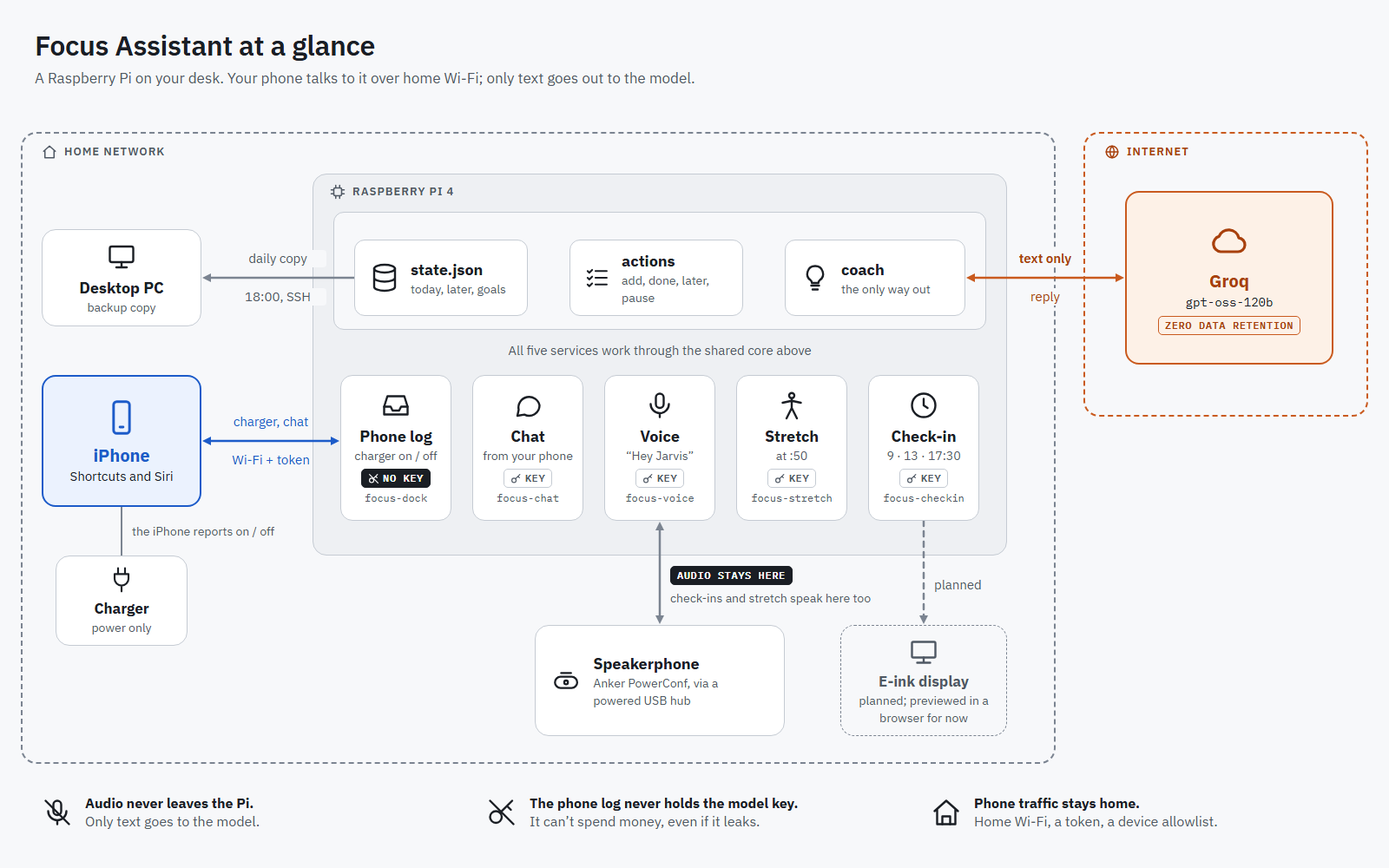
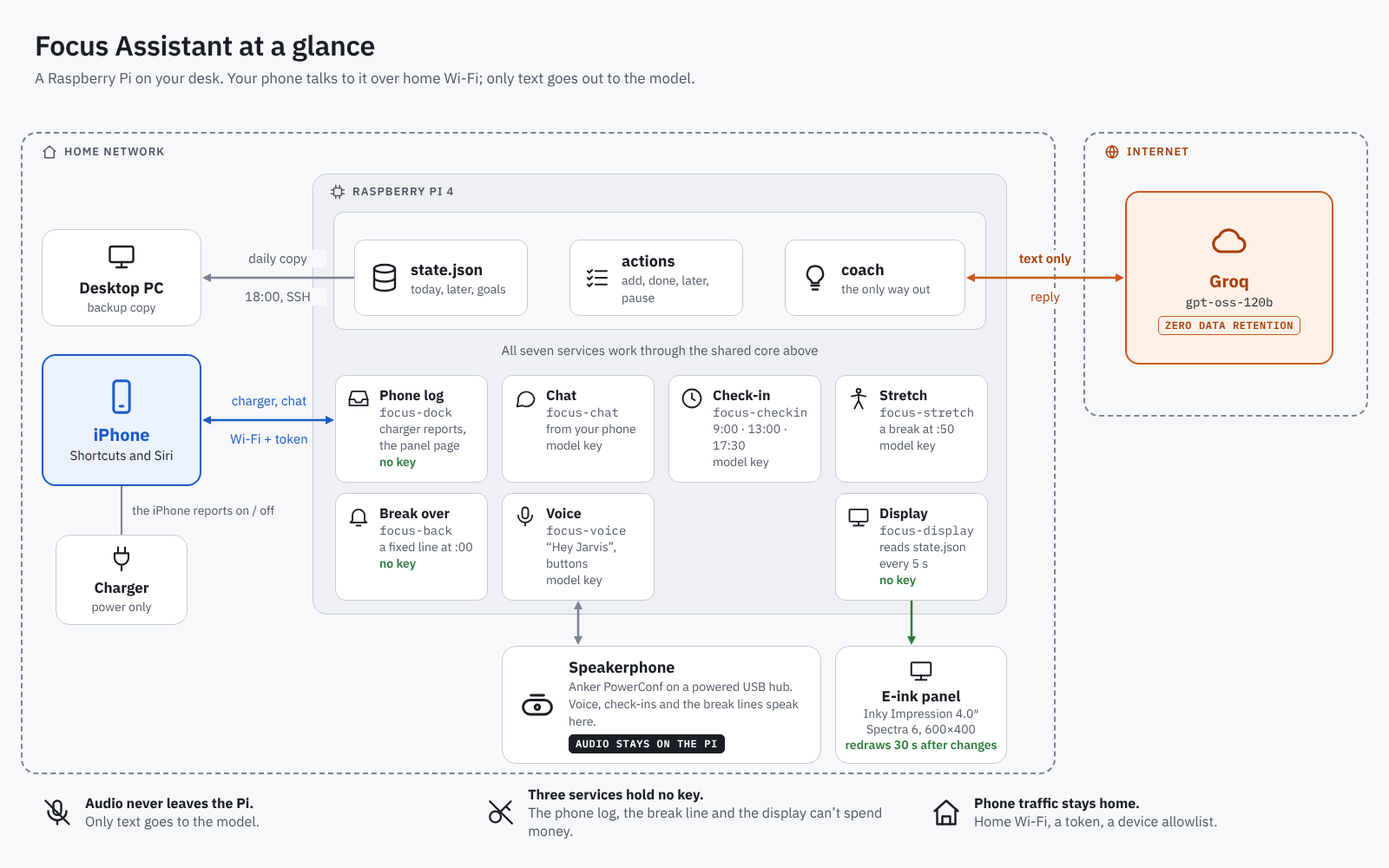
Show the live e-ink panel and all seven services in the at-a-glance diagram
The panel is a solid box fed by focus-display, which joins focus-back as
new service tiles (seven, in two rows). The phone log now serves the
panel's page. No-key services and trust boundaries get their own colour
tokens, ready for the new palette. The alt text says seven services and
drops "planned".

Claude-Session: https://claude.ai/code/session_012JGky2b5gRaRkVCuL4X8Ex

diff --git a/docs/diagrams/architecture-simple.html b/docs/diagrams/architecture-simple.html
@@ -10,10 +10,12 @@
 body{margin:0;background:#f7f8fa}
 @media (prefers-color-scheme: dark){body{background:#111418}}
 a{color:#1c5bc9}a:hover{color:#123f8f}
-.t-light,.t-auto{--bg:#f7f8fa;--panel:#eef0f3;--card:#ffffff;--ink:#1a1e24;--muted:#4f5864;--line:#7b8491;--border:#c5cbd3;--host:#a8400c;--host-bg:#fdf1e7;--host-line:#c95a1e;--phone:#1c5bc9;--phone-bg:#ebf2fe;--chip:#1a1e24;--chip-ink:#ffffff}
-.t-dark{--bg:#111418;--panel:#191d23;--card:#222830;--ink:#e7eaee;--muted:#a4acb7;--line:#8c96a3;--border:#3b434e;--host:#f39a63;--host-bg:#2c1f17;--host-line:#e07b40;--phone:#82abff;--phone-bg:#172338;--chip:#e7eaee;--chip-ink:#111418}
-@media (prefers-color-scheme: dark){.t-auto{--bg:#111418;--panel:#191d23;--card:#222830;--ink:#e7eaee;--muted:#a4acb7;--line:#8c96a3;--border:#3b434e;--host:#f39a63;--host-bg:#2c1f17;--host-line:#e07b40;--phone:#82abff;--phone-bg:#172338;--chip:#e7eaee;--chip-ink:#111418}}
+.t-light,.t-auto{--bg:#f7f8fa;--panel:#eef0f3;--card:#ffffff;--ink:#1a1e24;--muted:#4f5864;--line:#7b8491;--border:#c5cbd3;--host:#a8400c;--host-bg:#fdf1e7;--host-line:#c95a1e;--phone:#1c5bc9;--phone-bg:#ebf2fe;--chip:#1a1e24;--chip-ink:#ffffff;--nokey:#2f7d3e;--boundary:#7b8491}
+.t-dark{--bg:#111418;--panel:#191d23;--card:#222830;--ink:#e7eaee;--muted:#a4acb7;--line:#8c96a3;--border:#3b434e;--host:#f39a63;--host-bg:#2c1f17;--host-line:#e07b40;--phone:#82abff;--phone-bg:#172338;--chip:#e7eaee;--chip-ink:#111418;--nokey:#7cc28a;--boundary:#8c96a3}
+@media (prefers-color-scheme: dark){.t-auto{--bg:#111418;--panel:#191d23;--card:#222830;--ink:#e7eaee;--muted:#a4acb7;--line:#8c96a3;--border:#3b434e;--host:#f39a63;--host-bg:#2c1f17;--host-line:#e07b40;--phone:#82abff;--phone-bg:#172338;--chip:#e7eaee;--chip-ink:#111418;--nokey:#7cc28a;--boundary:#8c96a3}}
 .s{color:var(--muted)}
+.nk{color:var(--nokey);font-weight:600}
+.u{font:14px/19px 'IBM Plex Mono',ui-monospace,monospace;color:var(--muted)}
 .kb{display:inline-flex;align-items:center;gap:4px;font:600 12px/18px 'IBM Plex Mono',ui-monospace,monospace;letter-spacing:.05em;padding:1px 7px;border-radius:5px;border:1px solid var(--border);color:var(--muted)}
 .kb.no{background:var(--chip);color:var(--chip-ink);border-color:var(--chip)}
 .cap{display:flex;align-items:center;gap:8px;font-size:13px;line-height:16px;font-weight:600;letter-spacing:.08em;color:var(--muted)}
@@ -21,24 +23,24 @@ a{color:#1c5bc9}a:hover{color:#123f8f}
 <div class="t-auto" style="position: relative; width: 1600px; height: 1000px; overflow: hidden; background: var(--bg); color: var(--ink); font-family: 'IBM Plex Sans', system-ui, sans-serif">
 
 <!-- bands -->
-<div style="position: absolute; left: 24px; top: 152px; width: 1192px; height: 728px; box-sizing: border-box; border: 2px dashed var(--line); border-radius: 18px"></div>
-<div style="position: absolute; left: 1248px; top: 152px; width: 328px; height: 328px; box-sizing: border-box; border: 2px dashed var(--host-line); border-radius: 18px"></div>
-<div style="position: absolute; left: 360px; top: 200px; width: 800px; height: 440px; box-sizing: border-box; background: var(--panel); border: 1.5px solid var(--border); border-radius: 16px"></div>
+<div style="position: absolute; left: 24px; top: 152px; width: 1192px; height: 740px; box-sizing: border-box; border: 2px dashed var(--boundary); border-radius: 18px"></div>
+<div style="position: absolute; left: 1248px; top: 152px; width: 328px; height: 328px; box-sizing: border-box; border: 2px dashed var(--boundary); border-radius: 18px"></div>
+<div style="position: absolute; left: 360px; top: 200px; width: 800px; height: 508px; box-sizing: border-box; background: var(--panel); border: 1.5px solid var(--border); border-radius: 16px"></div>
 <div style="position: absolute; left: 384px; top: 244px; width: 752px; height: 136px; box-sizing: border-box; background: var(--bg); border: 1.5px solid var(--border); border-radius: 12px"></div>
 
 <!-- arrows -->
-<svg width="158" height="8" viewBox="0 0 158 8" preserveAspectRatio="none" style="position: absolute; left: 233px; top: 504px; width: 158px; height: 8px; overflow: visible; fill: none; stroke: var(--phone); stroke-width: 2.5; stroke-linecap: round; stroke-linejoin: round"><defs><marker id="dc-arrow-head-filled-1" orient="auto-start-reverse" markerWidth="5" markerHeight="5" refX="2" refY="2" overflow="visible"><path d="M0 0 L4 2 L0 4 Z" fill="#1c5bc9" stroke="none" style="stroke: none; fill: #1c5bc9; fill: context-stroke"/></marker></defs><path d="M 5 4 L 153 4" marker-start="url(#dc-arrow-head-filled-1)" marker-end="url(#dc-arrow-head-filled-1)"></path></svg>
+<svg width="152" height="8" viewBox="0 0 152 8" preserveAspectRatio="none" style="position: absolute; left: 233px; top: 480px; width: 152px; height: 8px; overflow: visible; fill: none; stroke: var(--phone); stroke-width: 2.5; stroke-linecap: round; stroke-linejoin: round"><defs><marker id="dc-arrow-head-filled-1" orient="auto-start-reverse" markerWidth="5" markerHeight="5" refX="2" refY="2" overflow="visible"><path d="M0 0 L4 2 L0 4 Z" fill="#1c5bc9" stroke="none" style="stroke: none; fill: #1c5bc9; fill: context-stroke"/></marker></defs><path d="M 5 4 L 147 4" marker-start="url(#dc-arrow-head-filled-1)" marker-end="url(#dc-arrow-head-filled-1)"></path></svg>
 <svg width="175" height="8" viewBox="0 0 175 8" preserveAspectRatio="none" style="position: absolute; left: 233px; top: 316px; width: 175px; height: 8px; overflow: visible; fill: none; stroke: var(--line); stroke-width: 2.5; stroke-linecap: round; stroke-linejoin: round"><defs><marker id="dc-arrow-head-filled-2" orient="auto" markerWidth="5" markerHeight="5" refX="2" refY="2" overflow="visible"><path d="M0 0 L4 2 L0 4 Z" fill="#7b8491" stroke="none" style="stroke: none; fill: #7b8491; fill: context-stroke"/></marker></defs><path d="M 175 4 L 5 4" marker-end="url(#dc-arrow-head-filled-2)"></path></svg>
 <svg width="182" height="8" viewBox="0 0 182 8" preserveAspectRatio="none" style="position: absolute; left: 1113px; top: 316px; width: 182px; height: 8px; overflow: visible; fill: none; stroke: var(--host-line); stroke-width: 2.5; stroke-linecap: round; stroke-linejoin: round"><defs><marker id="dc-arrow-head-filled-3" orient="auto-start-reverse" markerWidth="5" markerHeight="5" refX="2" refY="2" overflow="visible"><path d="M0 0 L4 2 L0 4 Z" fill="#c95a1e" stroke="none" style="stroke: none; fill: #c95a1e; fill: context-stroke"/></marker></defs><path d="M 5 4 L 177 4" marker-start="url(#dc-arrow-head-filled-3)" marker-end="url(#dc-arrow-head-filled-3)"></path></svg>
-<svg width="8" height="118" viewBox="0 0 8 118" preserveAspectRatio="none" style="position: absolute; left: 756px; top: 601px; width: 8px; height: 118px; overflow: visible; fill: none; stroke: var(--line); stroke-width: 2.5; stroke-linecap: round; stroke-linejoin: round"><defs><marker id="dc-arrow-head-filled-4" orient="auto-start-reverse" markerWidth="5" markerHeight="5" refX="2" refY="2" overflow="visible"><path d="M0 0 L4 2 L0 4 Z" fill="#7b8491" stroke="none" style="stroke: none; fill: #7b8491; fill: context-stroke"/></marker></defs><path d="M 4 5 L 4 113" marker-start="url(#dc-arrow-head-filled-4)" marker-end="url(#dc-arrow-head-filled-4)"></path></svg>
-<svg width="8" height="119" viewBox="0 0 8 119" preserveAspectRatio="none" style="position: absolute; left: 1060px; top: 600px; width: 8px; height: 119px; overflow: visible; fill: none; stroke: var(--line); stroke-width: 2.5; stroke-linecap: round; stroke-linejoin: round; stroke-dasharray: 6 6"><defs><marker id="dc-arrow-head-filled-5" orient="auto" markerWidth="5" markerHeight="5" refX="2" refY="2" overflow="visible"><path d="M0 0 L4 2 L0 4 Z" fill="#7b8491" stroke="none" style="stroke: none; stroke-dasharray: none; fill: #7b8491; fill: context-stroke"/></marker></defs><path d="M 4 0 L 4 114" marker-end="url(#dc-arrow-head-filled-5)"></path></svg>
+<svg width="8" height="51" viewBox="0 0 8 51" preserveAspectRatio="none" style="position: absolute; left: 662px; top: 692px; width: 8px; height: 51px; overflow: visible; fill: none; stroke: var(--line); stroke-width: 2.5; stroke-linecap: round; stroke-linejoin: round"><defs><marker id="dc-arrow-head-filled-4" orient="auto-start-reverse" markerWidth="5" markerHeight="5" refX="2" refY="2" overflow="visible"><path d="M0 0 L4 2 L0 4 Z" fill="#7b8491" stroke="none" style="stroke: none; fill: #7b8491; fill: context-stroke"/></marker></defs><path d="M 4 5 L 4 46" marker-start="url(#dc-arrow-head-filled-4)" marker-end="url(#dc-arrow-head-filled-4)"></path></svg>
+<svg width="8" height="51" viewBox="0 0 8 51" preserveAspectRatio="none" style="position: absolute; left: 1046px; top: 692px; width: 8px; height: 51px; overflow: visible; fill: none; stroke: var(--nokey); stroke-width: 2.5; stroke-linecap: round; stroke-linejoin: round"><defs><marker id="dc-arrow-head-filled-5" orient="auto" markerWidth="5" markerHeight="5" refX="2" refY="2" overflow="visible"><path d="M0 0 L4 2 L0 4 Z" fill="#7b8491" stroke="none" style="stroke: none; fill: #7b8491; fill: context-stroke"/></marker></defs><path d="M 4 0 L 4 46" marker-end="url(#dc-arrow-head-filled-5)"></path></svg>
 
 <!-- title -->
 <div style="position: absolute; left: 40px; top: 32px; font-size: 32px; line-height: 40px; font-weight: 600; letter-spacing: -0.01em">Focus Assistant at a glance</div>
 <div style="position: absolute; left: 40px; top: 78px; width: 900px; font-size: 17px; line-height: 24px; color: var(--muted)">A Raspberry Pi on your desk. Your phone talks to it over home Wi-Fi; only text goes out to the model.</div>
 
 <!-- people and devices -->
-<div style="position: absolute; left: 48px; top: 432px; width: 184px; height: 152px; box-sizing: border-box; display: flex; flex-direction: column; align-items: center; justify-content: center; gap: 8px; padding: 12px; text-align: center; background: var(--phone-bg); border: 2px solid var(--phone); border-radius: 16px; color: var(--phone)"><svg width="44" height="44" viewBox="0 0 24 24" fill="none" stroke="currentColor" stroke-width="1.6" stroke-linecap="round" stroke-linejoin="round" aria-hidden="true"><rect x="7" y="2" width="10" height="20" rx="2"></rect><path d="M11 18h2"></path></svg><span><b style="font-size: 20px">iPhone</b><br><span style="font-size: 15px; color: var(--ink)">Shortcuts and Siri</span></span></div>
+<div style="position: absolute; left: 48px; top: 408px; width: 184px; height: 152px; box-sizing: border-box; display: flex; flex-direction: column; align-items: center; justify-content: center; gap: 8px; padding: 12px; text-align: center; background: var(--phone-bg); border: 2px solid var(--phone); border-radius: 16px; color: var(--phone)"><svg width="44" height="44" viewBox="0 0 24 24" fill="none" stroke="currentColor" stroke-width="1.6" stroke-linecap="round" stroke-linejoin="round" aria-hidden="true"><rect x="7" y="2" width="10" height="20" rx="2"></rect><path d="M11 18h2"></path></svg><span><b style="font-size: 20px">iPhone</b><br><span style="font-size: 15px; color: var(--ink)">Shortcuts and Siri</span></span></div>
 <div style="position: absolute; left: 48px; top: 264px; width: 184px; height: 112px; box-sizing: border-box; display: flex; flex-direction: column; align-items: center; justify-content: center; gap: 6px; padding: 10px; text-align: center; background: var(--card); border: 1.5px solid var(--border); border-radius: 16px"><svg width="36" height="36" viewBox="0 0 24 24" fill="none" stroke="currentColor" stroke-width="1.6" stroke-linecap="round" stroke-linejoin="round" aria-hidden="true"><rect x="3" y="4" width="18" height="12" rx="1.5"></rect><path d="M8 20h8M12 16v4"></path></svg><span><b style="font-size: 18px">Desktop PC</b><br><span class="s" style="font-size: 14px">backup copy</span></span></div>
 
 <!-- shared core -->
@@ -47,41 +49,40 @@ a{color:#1c5bc9}a:hover{color:#123f8f}
 <div style="position: absolute; left: 904px; top: 276px; width: 208px; height: 88px; box-sizing: border-box; display: flex; align-items: center; gap: 12px; padding: 10px 16px; background: var(--card); border: 1.5px solid var(--border); border-radius: 12px"><svg width="36" height="36" viewBox="0 0 24 24" fill="none" stroke="currentColor" stroke-width="1.6" stroke-linecap="round" stroke-linejoin="round" aria-hidden="true"><path d="M9 18h6M10 21h4M12 3a6 6 0 0 0-3.5 10.9c.6.5 1 1.2 1 2.1h5c0-.9.4-1.6 1-2.1A6 6 0 0 0 12 3z"></path></svg><span><b style="font-size: 18px">coach</b><br><span class="s" style="font-size: 14px">the only way out</span></span></div>
 
 <!-- services -->
-<div style="position: absolute; left: 392px; top: 432px; width: 128px; height: 168px; box-sizing: border-box; display: flex; flex-direction: column; align-items: center; justify-content: center; gap: 6px; padding: 10px 8px; text-align: center; background: var(--card); border: 1.5px solid var(--border); border-radius: 14px"><svg width="36" height="36" viewBox="0 0 24 24" fill="none" stroke="currentColor" stroke-width="1.6" stroke-linecap="round" stroke-linejoin="round" aria-hidden="true"><path d="M3 13h5l1.5 3h5L16 13h5"></path><path d="M5.5 5h13L21 13v6H3v-6z"></path></svg><span><b style="font-size: 18px">Phone log</b><br><span class="s" style="font-size: 14px">charger on / off</span><br><span class="kb no" style="margin-top: 6px"><svg width="13" height="13" viewBox="0 0 24 24" fill="none" stroke="currentColor" stroke-width="2.2" stroke-linecap="round" stroke-linejoin="round" aria-hidden="true"><circle cx="7.5" cy="15.5" r="4.5"></circle><path d="M10.7 12.3L20 3M16 7l3 3M3 3l18 18"></path></svg>NO KEY</span><br><span style="font: 12px/18px 'IBM Plex Mono', monospace; color: var(--muted)">focus-dock</span></span></div>
-<div style="position: absolute; left: 544px; top: 432px; width: 128px; height: 168px; box-sizing: border-box; display: flex; flex-direction: column; align-items: center; justify-content: center; gap: 6px; padding: 10px 8px; text-align: center; background: var(--card); border: 1.5px solid var(--border); border-radius: 14px"><svg width="36" height="36" viewBox="0 0 24 24" fill="none" stroke="currentColor" stroke-width="1.6" stroke-linecap="round" stroke-linejoin="round" aria-hidden="true"><path d="M21 12a8 8 0 0 1-11.6 7.1L4 20l1-4.6A8 8 0 1 1 21 12z"></path></svg><span><b style="font-size: 18px">Chat</b><br><span class="s" style="font-size: 14px">from your phone</span><br><span class="kb" style="margin-top: 6px"><svg width="13" height="13" viewBox="0 0 24 24" fill="none" stroke="currentColor" stroke-width="2.2" stroke-linecap="round" stroke-linejoin="round" aria-hidden="true"><circle cx="7.5" cy="15.5" r="4.5"></circle><path d="M10.7 12.3L20 3M16 7l3 3"></path></svg>KEY</span><br><span style="font: 12px/18px 'IBM Plex Mono', monospace; color: var(--muted)">focus-chat</span></span></div>
-<div style="position: absolute; left: 696px; top: 432px; width: 128px; height: 168px; box-sizing: border-box; display: flex; flex-direction: column; align-items: center; justify-content: center; gap: 6px; padding: 10px 8px; text-align: center; background: var(--card); border: 1.5px solid var(--border); border-radius: 14px"><svg width="36" height="36" viewBox="0 0 24 24" fill="none" stroke="currentColor" stroke-width="1.6" stroke-linecap="round" stroke-linejoin="round" aria-hidden="true"><rect x="9" y="3" width="6" height="11" rx="3"></rect><path d="M5 11a7 7 0 0 0 14 0M12 18v3"></path></svg><span><b style="font-size: 18px">Voice</b><br><span class="s" style="font-size: 14px">“Hey Jarvis”</span><br><span class="kb" style="margin-top: 6px"><svg width="13" height="13" viewBox="0 0 24 24" fill="none" stroke="currentColor" stroke-width="2.2" stroke-linecap="round" stroke-linejoin="round" aria-hidden="true"><circle cx="7.5" cy="15.5" r="4.5"></circle><path d="M10.7 12.3L20 3M16 7l3 3"></path></svg>KEY</span><br><span style="font: 12px/18px 'IBM Plex Mono', monospace; color: var(--muted)">focus-voice</span></span></div>
-<div style="position: absolute; left: 848px; top: 432px; width: 128px; height: 168px; box-sizing: border-box; display: flex; flex-direction: column; align-items: center; justify-content: center; gap: 6px; padding: 10px 8px; text-align: center; background: var(--card); border: 1.5px solid var(--border); border-radius: 14px"><svg width="36" height="36" viewBox="0 0 24 24" fill="none" stroke="currentColor" stroke-width="1.6" stroke-linecap="round" stroke-linejoin="round" aria-hidden="true"><circle cx="12" cy="4.5" r="2"></circle><path d="M12 7.5v6.5M8 22l4-8 4 8M5 10l7-1.5 7 1.5"></path></svg><span><b style="font-size: 18px">Stretch</b><br><span class="s" style="font-size: 14px">at :50</span><br><span class="kb" style="margin-top: 6px"><svg width="13" height="13" viewBox="0 0 24 24" fill="none" stroke="currentColor" stroke-width="2.2" stroke-linecap="round" stroke-linejoin="round" aria-hidden="true"><circle cx="7.5" cy="15.5" r="4.5"></circle><path d="M10.7 12.3L20 3M16 7l3 3"></path></svg>KEY</span><br><span style="font: 12px/18px 'IBM Plex Mono', monospace; color: var(--muted)">focus-stretch</span></span></div>
-<div style="position: absolute; left: 1000px; top: 432px; width: 128px; height: 168px; box-sizing: border-box; display: flex; flex-direction: column; align-items: center; justify-content: center; gap: 6px; padding: 10px 8px; text-align: center; background: var(--card); border: 1.5px solid var(--border); border-radius: 14px"><svg width="36" height="36" viewBox="0 0 24 24" fill="none" stroke="currentColor" stroke-width="1.6" stroke-linecap="round" stroke-linejoin="round" aria-hidden="true"><circle cx="12" cy="12" r="9"></circle><path d="M12 7v5l3 2"></path></svg><span><b style="font-size: 18px">Check-in</b><br><span class="s" style="font-size: 14px">9 · 13 · 17:30</span><br><span class="kb" style="margin-top: 6px"><svg width="13" height="13" viewBox="0 0 24 24" fill="none" stroke="currentColor" stroke-width="2.2" stroke-linecap="round" stroke-linejoin="round" aria-hidden="true"><circle cx="7.5" cy="15.5" r="4.5"></circle><path d="M10.7 12.3L20 3M16 7l3 3"></path></svg>KEY</span><br><span style="font: 12px/18px 'IBM Plex Mono', monospace; color: var(--muted)">focus-checkin</span></span></div>
+<div style="position: absolute; left: 386px; top: 432px; width: 176px; height: 124px; box-sizing: border-box; display: flex; align-items: flex-start; gap: 10px; padding: 12px; background: var(--card); border: 1.5px solid var(--border); border-radius: 12px; font-size: 14px; line-height: 19px"><svg width="28" height="28" style="flex: none" viewBox="0 0 24 24" fill="none" stroke="currentColor" stroke-width="1.6" stroke-linecap="round" stroke-linejoin="round" aria-hidden="true"><path d="M3 13h5l1.5 3h5L16 13h5"></path><path d="M5.5 5h13L21 13v6H3v-6z"></path></svg><span><b style="font-size: 16px; line-height: 21px">Phone log</b><br><span class="u">focus-dock</span><br><span class="s">charger reports, the panel page</span><br><span class="nk">no key</span></span></div>
+<div style="position: absolute; left: 578px; top: 432px; width: 176px; height: 124px; box-sizing: border-box; display: flex; align-items: flex-start; gap: 10px; padding: 12px; background: var(--card); border: 1.5px solid var(--border); border-radius: 12px; font-size: 14px; line-height: 19px"><svg width="28" height="28" style="flex: none" viewBox="0 0 24 24" fill="none" stroke="currentColor" stroke-width="1.6" stroke-linecap="round" stroke-linejoin="round" aria-hidden="true"><path d="M21 12a8 8 0 0 1-11.6 7.1L4 20l1-4.6A8 8 0 1 1 21 12z"></path></svg><span><b style="font-size: 16px; line-height: 21px">Chat</b><br><span class="u">focus-chat</span><br><span class="s">from your phone</span><br><span class="s">model key</span></span></div>
+<div style="position: absolute; left: 770px; top: 432px; width: 176px; height: 124px; box-sizing: border-box; display: flex; align-items: flex-start; gap: 10px; padding: 12px; background: var(--card); border: 1.5px solid var(--border); border-radius: 12px; font-size: 14px; line-height: 19px"><svg width="28" height="28" style="flex: none" viewBox="0 0 24 24" fill="none" stroke="currentColor" stroke-width="1.6" stroke-linecap="round" stroke-linejoin="round" aria-hidden="true"><circle cx="12" cy="12" r="9"></circle><path d="M12 7v5l3 2"></path></svg><span><b style="font-size: 16px; line-height: 21px">Check-in</b><br><span class="u">focus-checkin</span><br><span class="s">9:00 · 13:00 · 17:30</span><br><span class="s">model key</span></span></div>
+<div style="position: absolute; left: 962px; top: 432px; width: 176px; height: 124px; box-sizing: border-box; display: flex; align-items: flex-start; gap: 10px; padding: 12px; background: var(--card); border: 1.5px solid var(--border); border-radius: 12px; font-size: 14px; line-height: 19px"><svg width="28" height="28" style="flex: none" viewBox="0 0 24 24" fill="none" stroke="currentColor" stroke-width="1.6" stroke-linecap="round" stroke-linejoin="round" aria-hidden="true"><circle cx="12" cy="4.5" r="2"></circle><path d="M12 7.5v6.5M8 22l4-8 4 8M5 10l7-1.5 7 1.5"></path></svg><span><b style="font-size: 16px; line-height: 21px">Stretch</b><br><span class="u">focus-stretch</span><br><span class="s">a break at :50</span><br><span class="s">model key</span></span></div>
+<div style="position: absolute; left: 386px; top: 568px; width: 176px; height: 124px; box-sizing: border-box; display: flex; align-items: flex-start; gap: 10px; padding: 12px; background: var(--card); border: 1.5px solid var(--border); border-radius: 12px; font-size: 14px; line-height: 19px"><svg width="28" height="28" style="flex: none" viewBox="0 0 24 24" fill="none" stroke="currentColor" stroke-width="1.6" stroke-linecap="round" stroke-linejoin="round" aria-hidden="true"><path d="M6 16V11a6 6 0 0 1 12 0v5l2 2H4z"></path><path d="M10 21h4"></path></svg><span><b style="font-size: 16px; line-height: 21px">Break over</b><br><span class="u">focus-back</span><br><span class="s">a fixed line at :00</span><br><span class="nk">no key</span></span></div>
+<div style="position: absolute; left: 578px; top: 568px; width: 176px; height: 124px; box-sizing: border-box; display: flex; align-items: flex-start; gap: 10px; padding: 12px; background: var(--card); border: 1.5px solid var(--border); border-radius: 12px; font-size: 14px; line-height: 19px"><svg width="28" height="28" style="flex: none" viewBox="0 0 24 24" fill="none" stroke="currentColor" stroke-width="1.6" stroke-linecap="round" stroke-linejoin="round" aria-hidden="true"><rect x="9" y="3" width="6" height="11" rx="3"></rect><path d="M5 11a7 7 0 0 0 14 0M12 18v3"></path></svg><span><b style="font-size: 16px; line-height: 21px">Voice</b><br><span class="u">focus-voice</span><br><span class="s">“Hey Jarvis”, buttons</span><br><span class="s">model key</span></span></div>
+<div style="position: absolute; left: 962px; top: 568px; width: 176px; height: 124px; box-sizing: border-box; display: flex; align-items: flex-start; gap: 10px; padding: 12px; background: var(--card); border: 1.5px solid var(--border); border-radius: 12px; font-size: 14px; line-height: 19px"><svg width="28" height="28" style="flex: none" viewBox="0 0 24 24" fill="none" stroke="currentColor" stroke-width="1.6" stroke-linecap="round" stroke-linejoin="round" aria-hidden="true"><rect x="3" y="5" width="18" height="12" rx="1"></rect><path d="M7 21h10M12 17v4"></path></svg><span><b style="font-size: 16px; line-height: 21px">Display</b><br><span class="u">focus-display</span><br><span class="s">reads state.json every 5 s</span><br><span class="nk">no key</span></span></div>
 
 <!-- hardware and host -->
-<div style="position: absolute; left: 616px; top: 720px; width: 288px; height: 128px; box-sizing: border-box; display: flex; align-items: center; gap: 14px; padding: 12px 18px; background: var(--card); border: 1.5px solid var(--border); border-radius: 16px"><svg width="44" height="44" viewBox="0 0 24 24" fill="none" stroke="currentColor" stroke-width="1.6" stroke-linecap="round" stroke-linejoin="round" aria-hidden="true"><rect x="3" y="9" width="18" height="9" rx="4.5"></rect><circle cx="12" cy="13.5" r="1.5"></circle><path d="M8 6h8"></path></svg><span><b style="font-size: 18px">Speakerphone</b><br><span class="s" style="font-size: 14px">Anker PowerConf, via a powered USB hub</span></span></div>
-<div style="position: absolute; left: 968px; top: 720px; width: 192px; height: 128px; box-sizing: border-box; display: flex; flex-direction: column; align-items: center; justify-content: center; gap: 6px; padding: 10px; text-align: center; border: 1.5px dashed var(--line); border-radius: 16px; color: var(--muted)"><svg width="36" height="36" viewBox="0 0 24 24" fill="none" stroke="currentColor" stroke-width="1.6" stroke-linecap="round" stroke-linejoin="round" aria-hidden="true"><rect x="3" y="5" width="18" height="12" rx="1"></rect><path d="M7 21h10M12 17v4"></path></svg><span><b style="font-size: 17px">E-ink display</b><br><span style="font-size: 14px">planned; previewed in a browser for now</span></span></div>
+<div style="position: absolute; left: 578px; top: 744px; width: 368px; height: 136px; box-sizing: border-box; display: flex; align-items: center; gap: 14px; padding: 12px 18px; background: var(--card); border: 1.5px solid var(--border); border-radius: 16px"><svg width="44" height="44" style="flex: none" viewBox="0 0 24 24" fill="none" stroke="currentColor" stroke-width="1.6" stroke-linecap="round" stroke-linejoin="round" aria-hidden="true"><rect x="3" y="9" width="18" height="9" rx="4.5"></rect><circle cx="12" cy="13.5" r="1.5"></circle><path d="M8 6h8"></path></svg><span><b style="font-size: 18px">Speakerphone</b><br><span class="s" style="font-size: 14px">Anker PowerConf on a powered USB hub. Voice, check-ins and the break lines speak here.</span><br><span class="kb no" style="margin-top: 6px">AUDIO STAYS ON THE PI</span></span></div>
+<div style="position: absolute; left: 962px; top: 744px; width: 198px; height: 136px; box-sizing: border-box; display: flex; flex-direction: column; align-items: center; justify-content: center; gap: 4px; padding: 8px 10px; text-align: center; background: var(--card); border: 1.5px solid var(--border); border-radius: 16px"><svg width="30" height="30" style="flex: none" viewBox="0 0 24 24" fill="none" stroke="currentColor" stroke-width="1.6" stroke-linecap="round" stroke-linejoin="round" aria-hidden="true"><rect x="3" y="5" width="18" height="12" rx="1"></rect><path d="M7 21h10M12 17v4"></path></svg><span style="font-size: 14px; line-height: 18px"><b style="font-size: 17px; line-height: 22px">E-ink panel</b><br><span class="s">Inky Impression 4.0″ Spectra 6, 600×400</span><br><span class="nk">redraws 30 s after changes</span></span></div>
 <div style="position: absolute; left: 1296px; top: 220px; width: 240px; height: 200px; box-sizing: border-box; display: flex; flex-direction: column; align-items: center; justify-content: center; gap: 8px; padding: 14px; text-align: center; background: var(--host-bg); border: 2px solid var(--host-line); border-radius: 16px; color: var(--host)"><svg width="48" height="48" viewBox="0 0 24 24" fill="none" stroke="currentColor" stroke-width="1.6" stroke-linecap="round" stroke-linejoin="round" aria-hidden="true"><path d="M7 18h10a4 4 0 0 0 .5-7.97A6 6 0 0 0 6.1 9.2 4.5 4.5 0 0 0 7 18z"></path></svg><span><b style="font-size: 20px">Groq</b><br><span style="font: 14px/20px 'IBM Plex Mono', monospace; color: var(--ink)">gpt-oss-120b</span><br><span class="kb" style="margin-top: 6px; border-color: var(--host-line); color: var(--host)">ZERO DATA RETENTION</span></span></div>
 
 <!-- privacy strip -->
 <div style="position: absolute; left: 48px; top: 904px; width: 488px; height: 64px; display: flex; align-items: center; gap: 14px; font-size: 16px; line-height: 21px"><svg width="36" height="36" viewBox="0 0 24 24" fill="none" stroke="currentColor" stroke-width="1.6" stroke-linecap="round" stroke-linejoin="round" aria-hidden="true"><rect x="9" y="3" width="6" height="11" rx="3"></rect><path d="M5 11a7 7 0 0 0 14 0M12 18v3M3 3l18 18"></path></svg><span><b>Audio never leaves the Pi.</b><br><span class="s">Only text goes to the model.</span></span></div>
-<div style="position: absolute; left: 560px; top: 904px; width: 488px; height: 64px; display: flex; align-items: center; gap: 14px; font-size: 16px; line-height: 21px"><svg width="36" height="36" viewBox="0 0 24 24" fill="none" stroke="currentColor" stroke-width="1.6" stroke-linecap="round" stroke-linejoin="round" aria-hidden="true"><circle cx="7.5" cy="15.5" r="4.5"></circle><path d="M10.7 12.3L20 3M16 7l3 3M3 3l18 18"></path></svg><span><b>The phone log never holds the model key.</b><br><span class="s">It can’t spend money, even if it leaks.</span></span></div>
+<div style="position: absolute; left: 560px; top: 904px; width: 488px; height: 64px; display: flex; align-items: center; gap: 14px; font-size: 16px; line-height: 21px"><svg width="36" height="36" viewBox="0 0 24 24" fill="none" stroke="currentColor" stroke-width="1.6" stroke-linecap="round" stroke-linejoin="round" aria-hidden="true"><circle cx="7.5" cy="15.5" r="4.5"></circle><path d="M10.7 12.3L20 3M16 7l3 3M3 3l18 18"></path></svg><span><b>Three services hold no key.</b><br><span class="s">The phone log, the break line and the display can’t spend money.</span></span></div>
 <div style="position: absolute; left: 1072px; top: 904px; width: 496px; height: 64px; display: flex; align-items: center; gap: 14px; font-size: 16px; line-height: 21px"><svg width="36" height="36" viewBox="0 0 24 24" fill="none" stroke="currentColor" stroke-width="1.6" stroke-linecap="round" stroke-linejoin="round" aria-hidden="true"><path d="M3 11l9-8 9 8M5 9.5V21h14V9.5"></path><path d="M9 21v-6h6v6"></path></svg><span><b>Phone traffic stays home.</b><br><span class="s">Home Wi-Fi, a token, a device allowlist.</span></span></div>
 
 <!-- charger -->
-<div style="position: absolute; left: 139px; top: 584px; width: 2px; height: 56px; background: var(--line)"></div>
-<div style="position: absolute; left: 64px; top: 640px; width: 152px; height: 104px; box-sizing: border-box; display: flex; flex-direction: column; align-items: center; justify-content: center; gap: 6px; padding: 10px; text-align: center; background: var(--card); border: 1.5px solid var(--border); border-radius: 16px"><svg width="32" height="32" viewBox="0 0 24 24" fill="none" stroke="currentColor" stroke-width="1.6" stroke-linecap="round" stroke-linejoin="round" aria-hidden="true"><path d="M9 2v5M15 2v5M6 7h12v4a6 6 0 0 1-12 0zM12 17v5"></path></svg><span><b style="font-size: 17px">Charger</b><br><span class="s" style="font-size: 14px">power only</span></span></div>
-<div style="position: absolute; left: 152px; top: 602px; width: 200px; font-size: 14px; line-height: 20px; color: var(--muted)">the iPhone reports on / off</div>
+<div style="position: absolute; left: 139px; top: 560px; width: 2px; height: 56px; background: var(--line)"></div>
+<div style="position: absolute; left: 64px; top: 616px; width: 152px; height: 104px; box-sizing: border-box; display: flex; flex-direction: column; align-items: center; justify-content: center; gap: 6px; padding: 10px; text-align: center; background: var(--card); border: 1.5px solid var(--border); border-radius: 16px"><svg width="32" height="32" viewBox="0 0 24 24" fill="none" stroke="currentColor" stroke-width="1.6" stroke-linecap="round" stroke-linejoin="round" aria-hidden="true"><path d="M9 2v5M15 2v5M6 7h12v4a6 6 0 0 1-12 0zM12 17v5"></path></svg><span><b style="font-size: 17px">Charger</b><br><span class="s" style="font-size: 14px">power only</span></span></div>
+<div style="position: absolute; left: 152px; top: 578px; width: 200px; font-size: 14px; line-height: 20px; color: var(--muted)">the iPhone reports on / off</div>
 
 <!-- labels -->
 <div class="cap" style="position: absolute; left: 48px; top: 166px"><svg width="18" height="18" viewBox="0 0 24 24" fill="none" stroke="currentColor" stroke-width="2" stroke-linecap="round" stroke-linejoin="round" aria-hidden="true"><path d="M3 11l9-8 9 8M5 9.5V21h14V9.5"></path></svg>HOME NETWORK</div>
 <div class="cap" style="position: absolute; left: 1272px; top: 166px; color: var(--host)"><svg width="18" height="18" viewBox="0 0 24 24" fill="none" stroke="currentColor" stroke-width="2" stroke-linecap="round" stroke-linejoin="round" aria-hidden="true"><circle cx="12" cy="12" r="9"></circle><path d="M3 12h18M12 3a14 14 0 0 1 0 18M12 3a14 14 0 0 0 0 18"></path></svg>INTERNET</div>
 <div class="cap" style="position: absolute; left: 380px; top: 212px"><svg width="18" height="18" viewBox="0 0 24 24" fill="none" stroke="currentColor" stroke-width="2" stroke-linecap="round" stroke-linejoin="round" aria-hidden="true"><rect x="6" y="6" width="12" height="12" rx="2"></rect><path d="M9 2v4M15 2v4M9 18v4M15 18v4M2 9h4M2 15h4M18 9h4M18 15h4"></path></svg>RASPBERRY PI 4</div>
-<div style="position: absolute; left: 460px; top: 394px; width: 600px; text-align: center; font-size: 15px; line-height: 20px; color: var(--muted)">All five services work through the shared core above</div>
-<div style="position: absolute; left: 240px; top: 476px; width: 144px; text-align: center; font-size: 15px; line-height: 20px; color: var(--phone)">charger, chat</div>
-<div style="position: absolute; left: 236px; top: 520px; width: 152px; text-align: center; font-size: 15px; line-height: 20px; color: var(--phone)">Wi-Fi + token</div>
+<div style="position: absolute; left: 460px; top: 394px; width: 600px; text-align: center; font-size: 15px; line-height: 20px; color: var(--muted)">All seven services work through the shared core above</div>
+<div style="position: absolute; left: 238px; top: 452px; width: 144px; text-align: center; font-size: 15px; line-height: 20px; color: var(--phone)">charger, chat</div>
+<div style="position: absolute; left: 234px; top: 496px; width: 152px; text-align: center; font-size: 15px; line-height: 20px; color: var(--phone)">Wi-Fi + token</div>
 <div style="position: absolute; left: 264px; top: 288px; width: 112px; text-align: center; font-size: 15px; line-height: 20px; color: var(--muted); background: var(--bg); border-radius: 4px">daily copy</div>
 <div style="position: absolute; left: 264px; top: 332px; width: 112px; text-align: center; font-size: 15px; line-height: 20px; color: var(--muted); background: var(--bg); border-radius: 4px">18:00, SSH</div>
 <div style="position: absolute; left: 1164px; top: 288px; width: 80px; text-align: center; font-size: 15px; line-height: 20px; font-weight: 600; color: var(--host); background: var(--bg); border-radius: 4px">text only</div>
 <div style="position: absolute; left: 1178px; top: 332px; width: 52px; text-align: center; font-size: 15px; line-height: 20px; color: var(--host); background: var(--bg); border-radius: 4px">reply</div>
-<div style="position: absolute; left: 772px; top: 652px; width: 200px; font-size: 15px; line-height: 20px"><span class="kb no">AUDIO STAYS HERE</span></div>
-<div style="position: absolute; left: 772px; top: 680px; width: 270px; font-size: 14px; line-height: 18px; color: var(--muted)">check-ins and stretch speak here too</div>
-<div style="position: absolute; left: 1076px; top: 664px; width: 64px; font-size: 15px; line-height: 20px; color: var(--muted)">planned</div>
 
 </div>
 </body>

diff --git a/README.md b/README.md
@@ -16,7 +16,7 @@ your phone.**
 
 <picture>
   <source media="(prefers-color-scheme: dark)" srcset="docs/diagrams/architecture-simple-dark.png">
-  <img alt="At a glance: the iPhone (with an ordinary charger), the Pi's shared core and five services, the speakerphone, the planned e-ink display, and Groq, which only receives text" src="docs/diagrams/architecture-simple.png">
+  <img alt="At a glance: the iPhone (with an ordinary charger), the Pi's shared core and seven services, the speakerphone, the e-ink panel, and Groq, which only receives text" src="docs/diagrams/architecture-simple.png">
 </picture>
 
 More diagrams, including a weekday timeline, are in

diff --git a/docs/architecture.md b/docs/architecture.md
@@ -9,7 +9,7 @@ At a glance:
 
 <picture>
   <source media="(prefers-color-scheme: dark)" srcset="diagrams/architecture-simple-dark.png">
-  <img alt="At a glance: the iPhone (with an ordinary charger), the Pi's shared core and five services, the speakerphone, the planned e-ink display, and Groq, which only receives text" src="diagrams/architecture-simple.png">
+  <img alt="At a glance: the iPhone (with an ordinary charger), the Pi's shared core and seven services, the speakerphone, the e-ink panel, and Groq, which only receives text" src="diagrams/architecture-simple.png">
 </picture>
 
 <picture>
